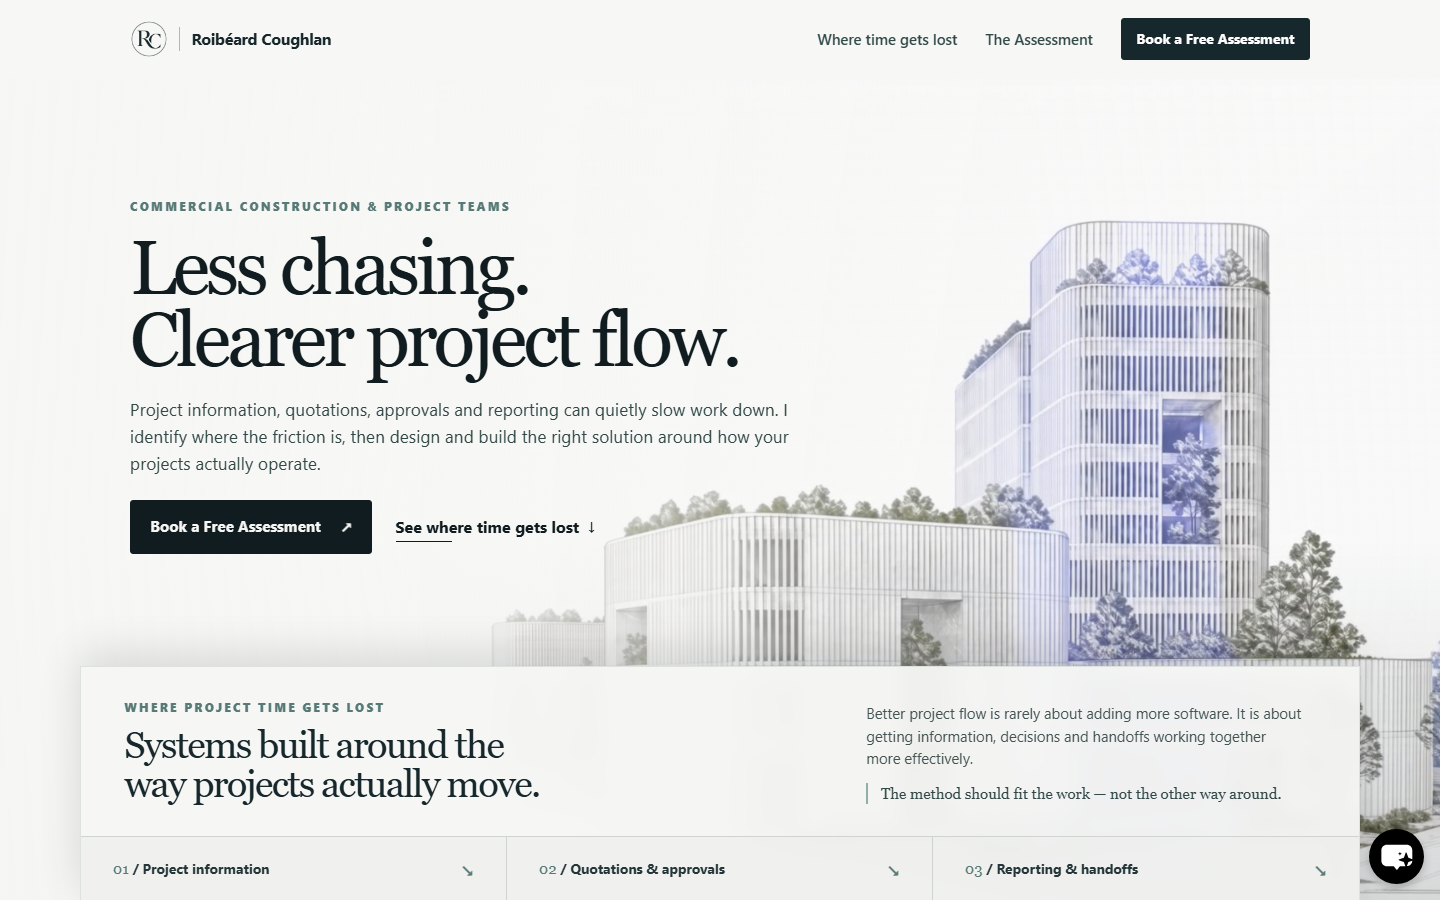
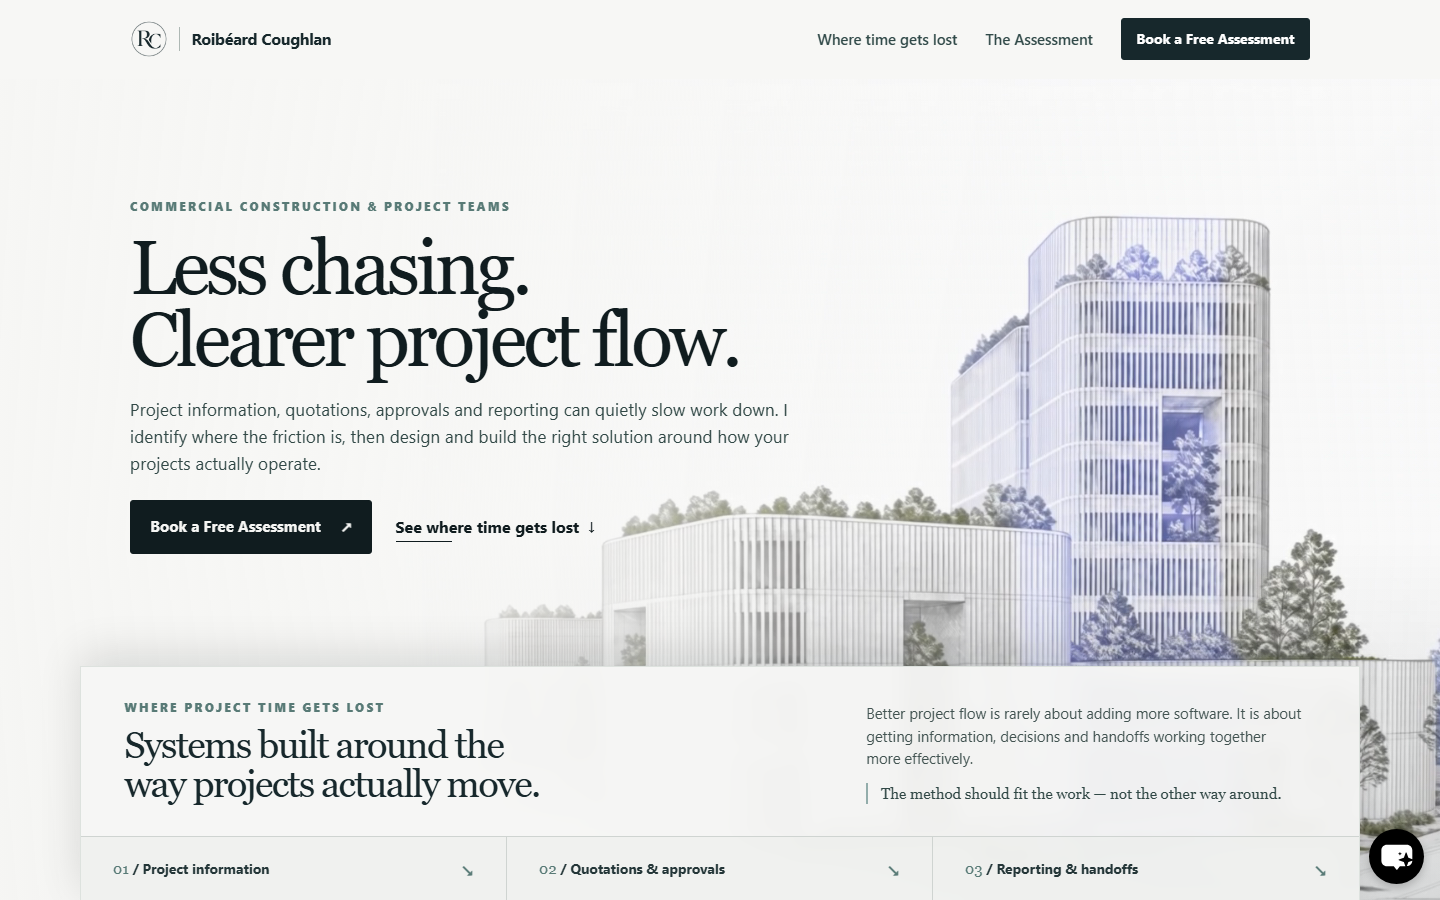
Update mobile responsiveness in particular on hero pages

diff --git a/assets/css/styles.css b/assets/css/styles.css
@@ -483,12 +483,12 @@ h2 { margin-bottom: 0; font-family: var(--serif); font-size: clamp(2.35rem, 5vw,
   transition: opacity 900ms cubic-bezier(.22, 1, .36, 1);
 }
 .construction-hero-media video.is-ready { opacity: 1; }
-.construction-hero-media video.is-fading-out { opacity: 0; }
+.construction-hero-media video.is-fading-out { opacity: 0; transition-duration: 640ms; transition-timing-function: linear; }
 .construction-hero-media canvas {
   display: block;
   visibility: hidden;
   opacity: 0;
-  transition: opacity 700ms cubic-bezier(.22, 1, .36, 1);
+  transition: opacity 640ms linear;
 }
 .construction-hero-media canvas.is-active {
   visibility: visible;
@@ -799,10 +799,10 @@ h2 { margin-bottom: 0; font-family: var(--serif); font-size: clamp(2.35rem, 5vw,
   .primary-nav { inset-block-start: 70px; }
   .hero { padding: 4.5rem 0 5rem; }
   .construction-hero-media { height: calc(100svh - 70px); }
-  .construction-hero-media-stage { transform: scale(1.13) scaleX(-1); }
+  .construction-hero-media-stage { transform: scale(1.06) scaleX(-1); }
   .construction-hero-media video,
-  .construction-hero-media canvas { object-position: center top; }
-  .construction-hero-main { min-height: calc(100svh - 70px); padding: 2.6rem 0 2.8rem; }
+  .construction-hero-media canvas { object-position: 48% top; }
+  .construction-hero-main { min-height: calc(100svh - 70px); align-items: flex-start; padding: clamp(3.1rem, 9svh, 4.65rem) 0 3rem; }
   .construction-hero-eyebrow { max-width: 320px; margin-bottom: .85rem; }
   .construction-hero-title { margin-bottom: 1.1rem; font-size: clamp(2.42rem, 9.9vw, 2.8rem); line-height: .98; }
   .construction-hero-lead { max-width: 358px; margin-bottom: 1.25rem; font-size: .96rem; line-height: 1.5; }
@@ -810,8 +810,8 @@ h2 { margin-bottom: 0; font-family: var(--serif); font-size: clamp(2.35rem, 5vw,
   .construction-hero-actions .button { width: 100%; }
   .construction-hero-overlay {
     background:
-      linear-gradient(90deg, rgba(246, 246, 244, .94) 0%, rgba(246, 246, 244, .83) 57%, rgba(246, 246, 244, .4) 100%),
-      linear-gradient(180deg, rgba(246, 246, 244, .24) 0%, rgba(246, 246, 244, .08) 42%, rgba(246, 246, 244, .72) 100%);
+      linear-gradient(90deg, rgba(246, 246, 244, .9) 0%, rgba(246, 246, 244, .72) 57%, rgba(246, 246, 244, .16) 100%),
+      linear-gradient(180deg, rgba(246, 246, 244, .18) 0%, rgba(246, 246, 244, .04) 42%, rgba(246, 246, 244, .38) 100%);
   }
   .construction-hero-panel { width: 100%; }
   .construction-panel-intro { grid-template-columns: 1fr; gap: 1.25rem; padding: 1.6rem 14px 1.5rem; }
@@ -833,10 +833,10 @@ h2 { margin-bottom: 0; font-family: var(--serif); font-size: clamp(2.35rem, 5vw,
   .home-hero .hero-availability { align-items: flex-start; }
   .home-hero .hero-grid { display: block; }
   .hero-media { inset: 0; }
-  .hero-media-video { inset: 35% auto auto 2%; width: 156%; height: 72%; object-position: 50% center; opacity: 0; filter: saturate(.68) contrast(1.08) brightness(.62); transform: none; }
-  .hero-media-video.is-ready { opacity: .54; }
-  .hero-media-vignette { background: linear-gradient(180deg, #0b1417 0%, rgba(11, 20, 23, .98) 38%, rgba(11, 20, 23, .82) 57%, rgba(11, 20, 23, .42) 100%), linear-gradient(90deg, rgba(11, 20, 23, .88), rgba(11, 20, 23, .24)); }
-  .hero-media-vignette::after { background: radial-gradient(circle at 68% 72%, transparent 0 20%, rgba(11, 20, 23, .22) 48%, rgba(11, 20, 23, .62) 100%); }
+  .hero-media-video { inset: 22% auto auto -12%; width: 178%; height: 84%; object-position: 54% center; opacity: 0; filter: saturate(.72) contrast(1.08) brightness(.74); transform: none; }
+  .hero-media-video.is-ready { opacity: .72; }
+  .hero-media-vignette { background: linear-gradient(180deg, #0b1417 0%, rgba(11, 20, 23, .96) 28%, rgba(11, 20, 23, .74) 49%, rgba(11, 20, 23, .32) 78%, rgba(11, 20, 23, .44) 100%), linear-gradient(90deg, rgba(11, 20, 23, .94) 0%, rgba(11, 20, 23, .7) 43%, rgba(11, 20, 23, .14) 100%); }
+  .hero-media-vignette::after { background: radial-gradient(circle at 72% 70%, transparent 0 24%, rgba(11, 20, 23, .14) 52%, rgba(11, 20, 23, .48) 100%); }
   .hero-actions { align-items: stretch; flex-direction: column; }
   .hero-actions .button { width: 100%; }
   .audit-card, .project-card { box-shadow: 10px 10px 0 var(--mist); }
@@ -878,8 +878,8 @@ h2 { margin-bottom: 0; font-family: var(--serif); font-size: clamp(2.35rem, 5vw,
   .construction-hero-lead { font-size: .91rem; }
   .home-hero { padding-block: 2.25rem 2.6rem; }
   .home-hero .hero-title { font-size: clamp(2.65rem, 11.8vw, 3.15rem); }
-  .hero-media-video { inset-block-start: 43%; height: 65%; opacity: 0; }
-  .hero-media-video.is-ready { opacity: .44; }
+  .hero-media-video { inset-block-start: 28%; height: 80%; opacity: 0; }
+  .hero-media-video.is-ready { opacity: .64; }
 }
 
 .motion-ready .reveal-item { opacity: 0; transform: translateY(16px); transition: opacity 620ms ease, transform 620ms cubic-bezier(.22, 1, .36, 1); transition-delay: var(--reveal-delay, 0ms); }

diff --git a/assets/js/site.js b/assets/js/site.js
@@ -95,8 +95,9 @@ const constructionVideo = document.querySelector('[data-construction-hero-video]
 const constructionCanvas = document.querySelector('[data-construction-hero-canvas]');
 
 if (constructionHero && constructionVideo && constructionCanvas) {
-  const trimStart = .45;
-  const trimEndPadding = .65;
+  const trimStart = .72;
+  const trimEndPadding = .85;
+  const handoffDuration = 640;
   const outputContext = constructionCanvas.getContext('2d', { alpha: false, desynchronized: true });
   const frames = [];
   let captureRequest = 0;
@@ -104,7 +105,10 @@ if (constructionHero && constructionVideo && constructionCanvas) {
   let lastCapturedTime = -1;
   let frameIndex = 0;
   let frameDirection = 1;
+  let frameStart = 0;
+  let frameEnd = 0;
   let captureComplete = false;
+  let handoffComplete = false;
   let capturePrepared = false;
   let preparingCapture = false;
   let captureEnd = Number.POSITIVE_INFINITY;
@@ -116,24 +120,27 @@ if (constructionHero && constructionVideo && constructionCanvas) {
     playbackTimer = 0;
   };
 
-  const drawFrame = () => {
-    const frame = frames[frameIndex];
+  const renderFrame = (index) => {
+    const frame = frames[index];
     if (!frame || !outputContext) return;
-
     outputContext.drawImage(frame, 0, 0, constructionCanvas.width, constructionCanvas.height);
+  };
+
+  const drawFrame = () => {
+    renderFrame(frameIndex);
     frameIndex += frameDirection;
 
-    if (frameIndex >= frames.length - 1) {
-      frameIndex = frames.length - 1;
+    if (frameIndex >= frameEnd) {
+      frameIndex = frameEnd;
       frameDirection = -1;
-    } else if (frameIndex <= 0) {
-      frameIndex = 0;
+    } else if (frameIndex <= frameStart) {
+      frameIndex = frameStart;
       frameDirection = 1;
     }
   };
 
   const startCanvasPlayback = () => {
-    if (reduceMotion.matches || !heroIsVisible || document.hidden || playbackTimer || frames.length < 2) return;
+    if (!handoffComplete || reduceMotion.matches || !heroIsVisible || document.hidden || playbackTimer || frames.length < 2) return;
     drawFrame();
     playbackTimer = window.setInterval(drawFrame, 1000 / 30);
   };
@@ -154,7 +161,7 @@ if (constructionHero && constructionVideo && constructionCanvas) {
   };
 
   const captureWithVideoFrames = () => {
-    if (constructionVideo.currentTime >= captureEnd) {
+    if (constructionVideo.currentTime >= captureEnd - .045) {
       finishCapture();
       return;
     }
@@ -165,7 +172,7 @@ if (constructionHero && constructionVideo && constructionCanvas) {
   };
 
   const captureWithAnimationFrames = () => {
-    if (constructionVideo.currentTime >= captureEnd) {
+    if (constructionVideo.currentTime >= captureEnd - .045) {
       finishCapture();
       return;
     }
@@ -191,15 +198,22 @@ if (constructionHero && constructionVideo && constructionCanvas) {
 
     constructionCanvas.width = frames[0].width;
     constructionCanvas.height = frames[0].height;
-    frameIndex = frames.length - 1;
+    const loopInset = Math.min(3, Math.max(1, Math.floor(frames.length * .015)));
+    frameStart = loopInset;
+    frameEnd = Math.max(frameStart + 1, frames.length - 1 - loopInset);
+    frameIndex = frameEnd;
     frameDirection = -1;
-    drawFrame();
+    renderFrame(frameIndex);
     constructionCanvas.classList.add('is-active');
     constructionVideo.classList.add('is-fading-out');
-    window.setTimeout(() => { constructionVideo.style.display = 'none'; }, 760);
+    window.setTimeout(() => {
+      constructionVideo.style.display = 'none';
+      handoffComplete = true;
+      frameIndex = Math.max(frameStart, frameEnd - 1);
+      startCanvasPlayback();
+    }, handoffDuration);
     constructionHero.dataset.boomerangFrames = String(frames.length);
     constructionHero.dataset.boomerangMemoryMb = String(Math.round((frames.length * frames[0].width * frames[0].height * 4) / 1048576));
-    startCanvasPlayback();
   };
 
   const playCaptureVideo = () => {
